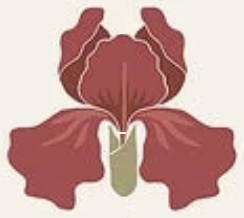
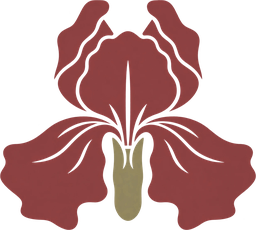
PIN card: transparent iris on the slabs' paper colour
Claude-Session: https://claude.ai/code/session_01KwLp81kJS45Dtstu4iYV7x

diff --git a/src/styles.css b/src/styles.css
@@ -922,7 +922,7 @@ p {
 .gate-card {
   width: 100%;
   max-width: 21rem;
-  background: #f4f1ea; /* the iris image's own background */
+  background: var(--slab); /* the same paper as the slabs inside */
   box-shadow: var(--shadow);
   padding: 2rem;
   display: flex;
